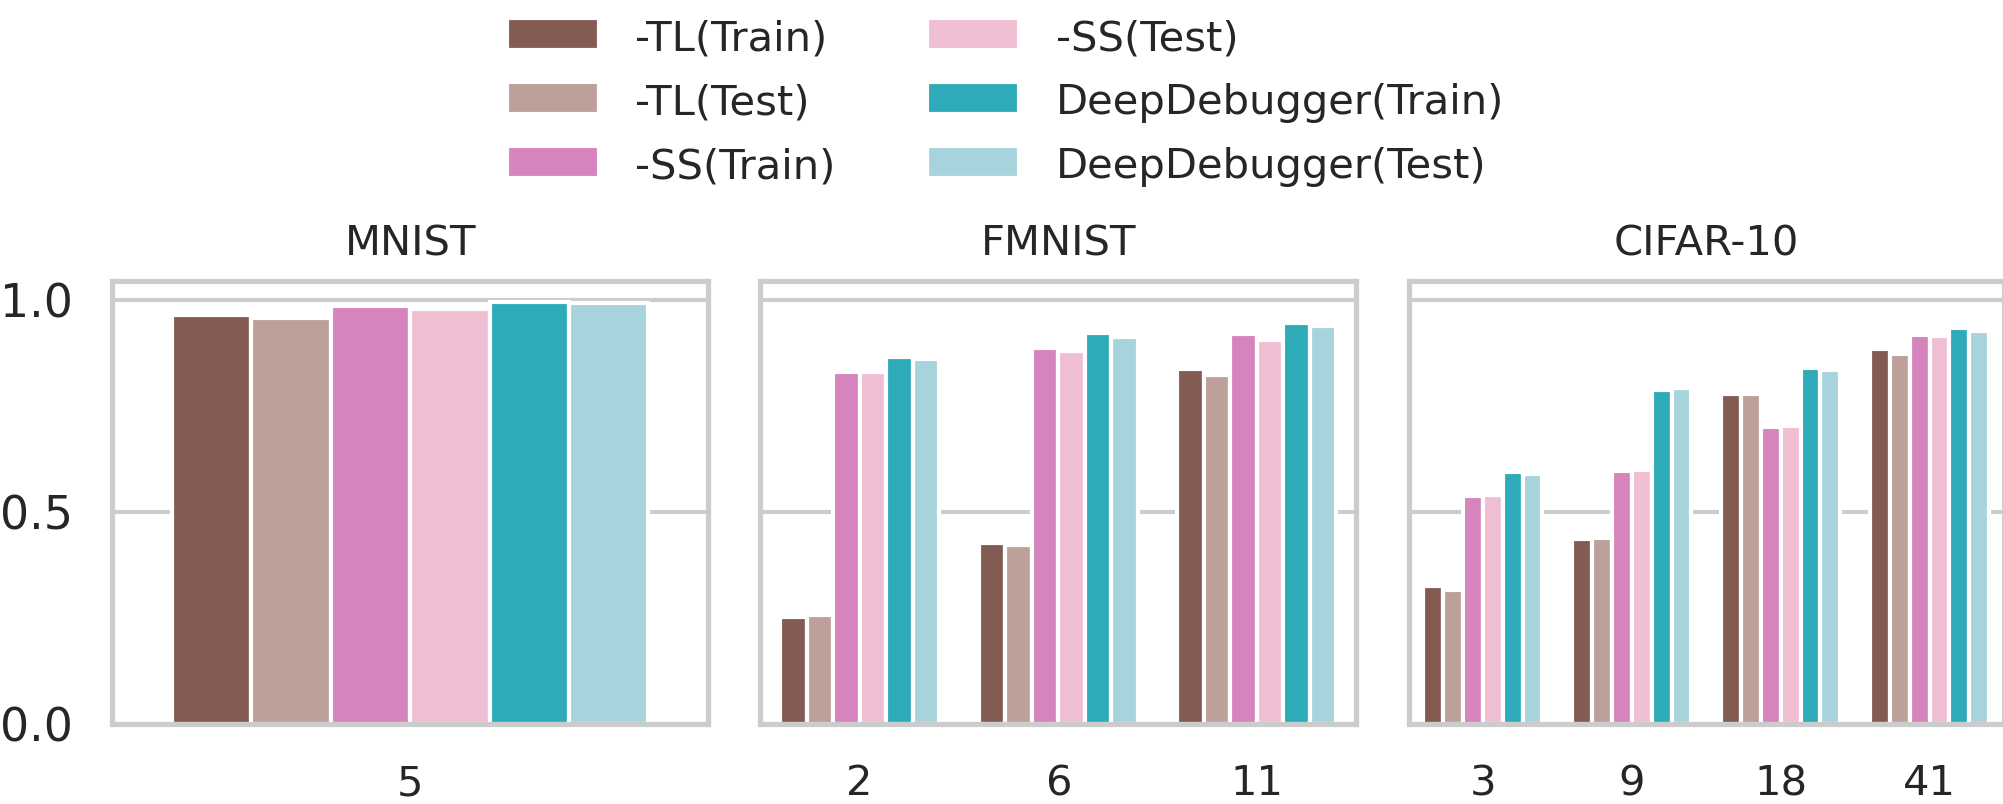
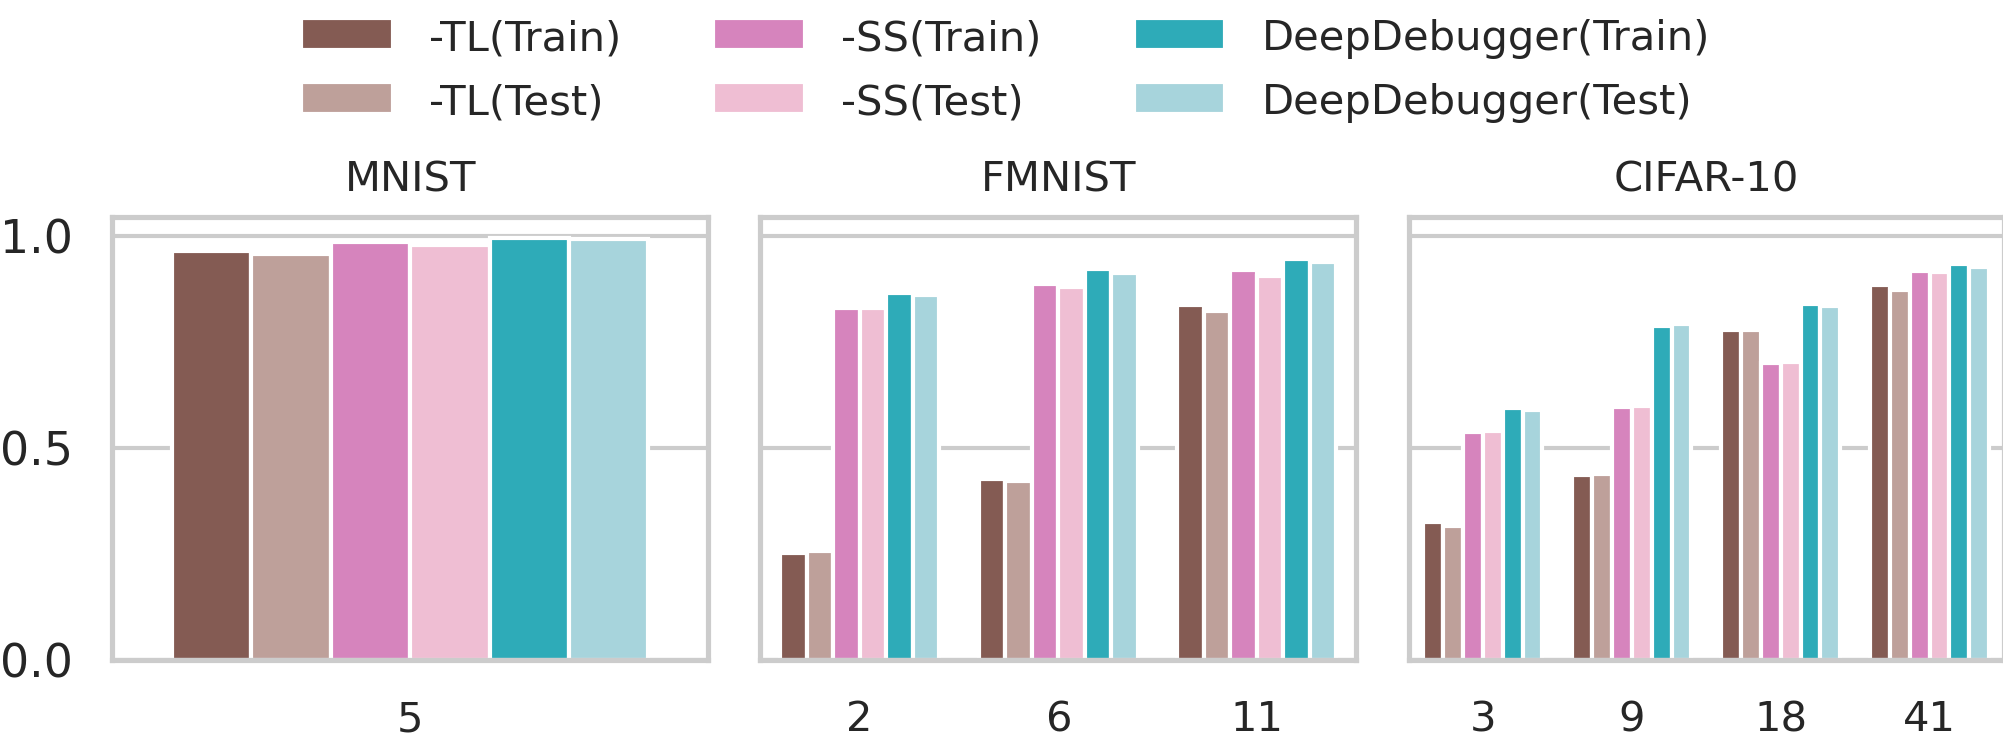
minor

diff --git a/singleVis/plot/ablation_smoothness_inv.py b/singleVis/plot/ablation_smoothness_inv.py
@@ -104,7 +104,7 @@ def main():
         palette=[hue_dict[i] for i in hue_list],
         legend=True
     )
-    sns.move_legend(fg, "lower center", bbox_to_anchor=(.42, 0.92), ncol=2, title=None, frameon=False)
+    sns.move_legend(fg, "lower center", bbox_to_anchor=(.42, 0.92), ncol=3, title=None, frameon=False)
     mpl.pyplot.setp(fg._legend.get_texts(), fontsize='10')
 
     axs = fg.axes[0]
